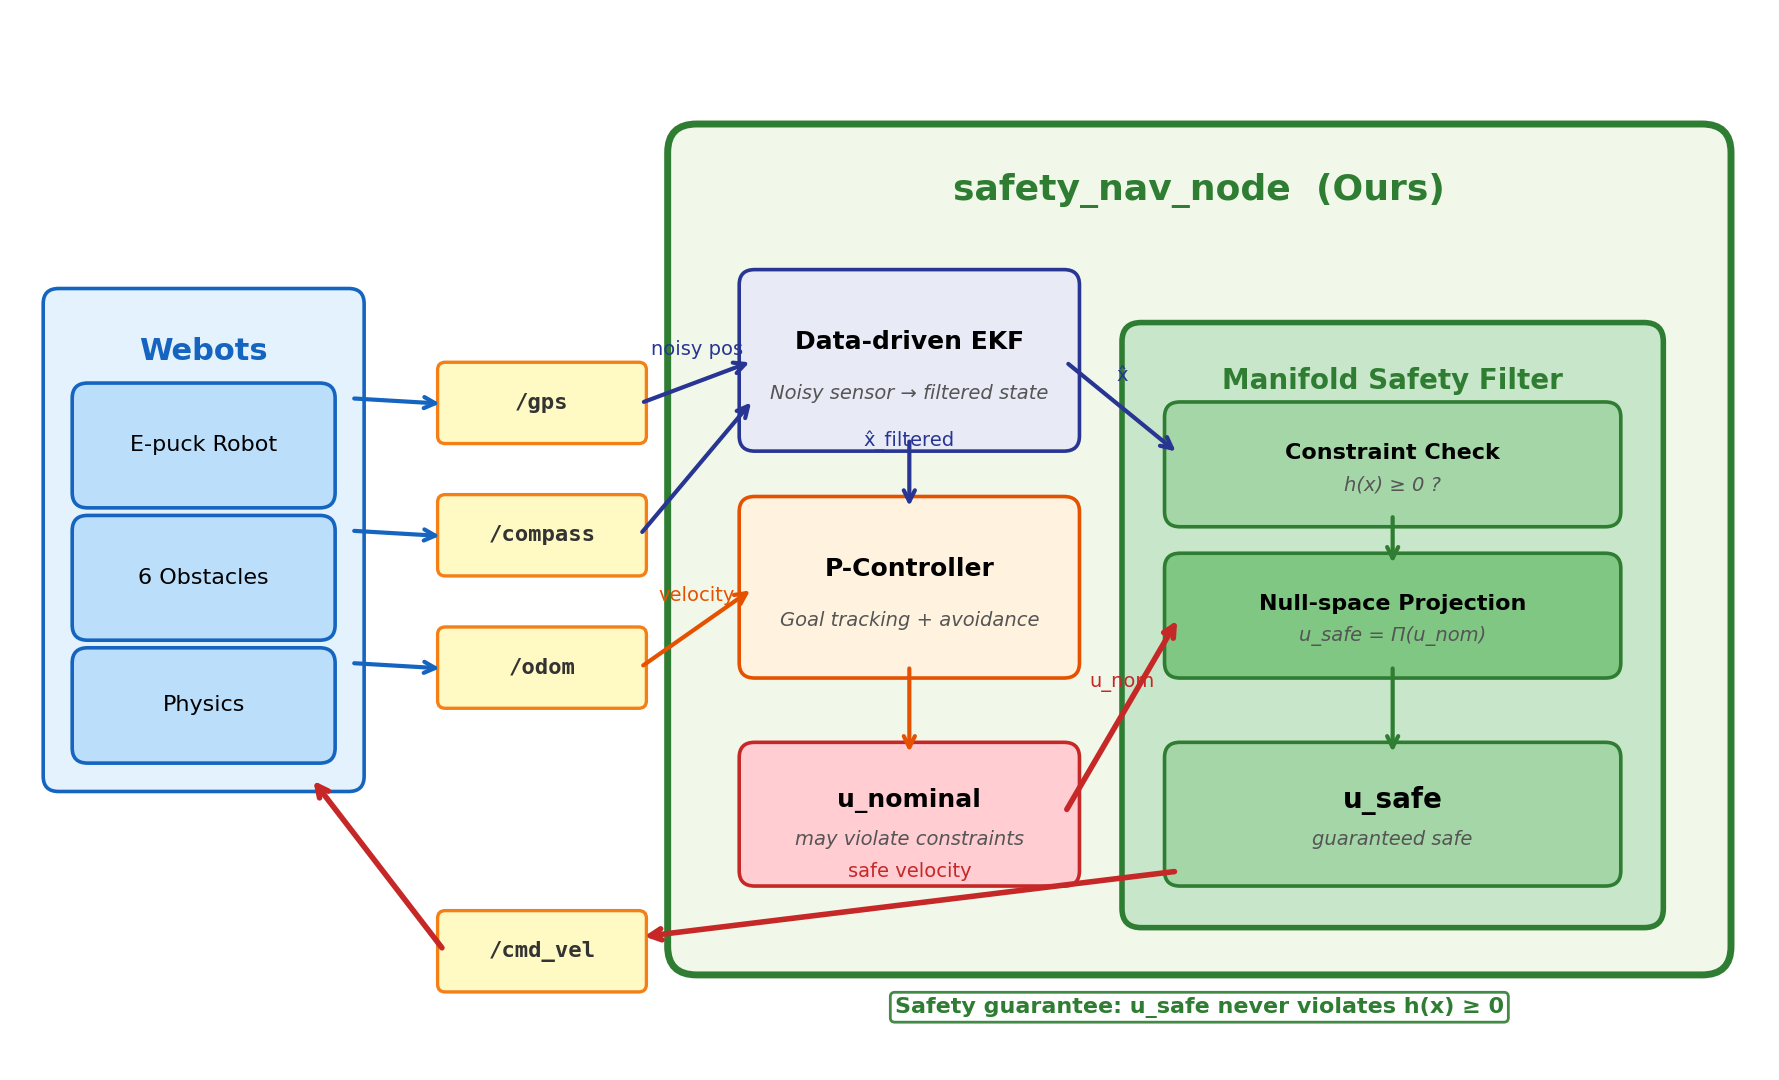
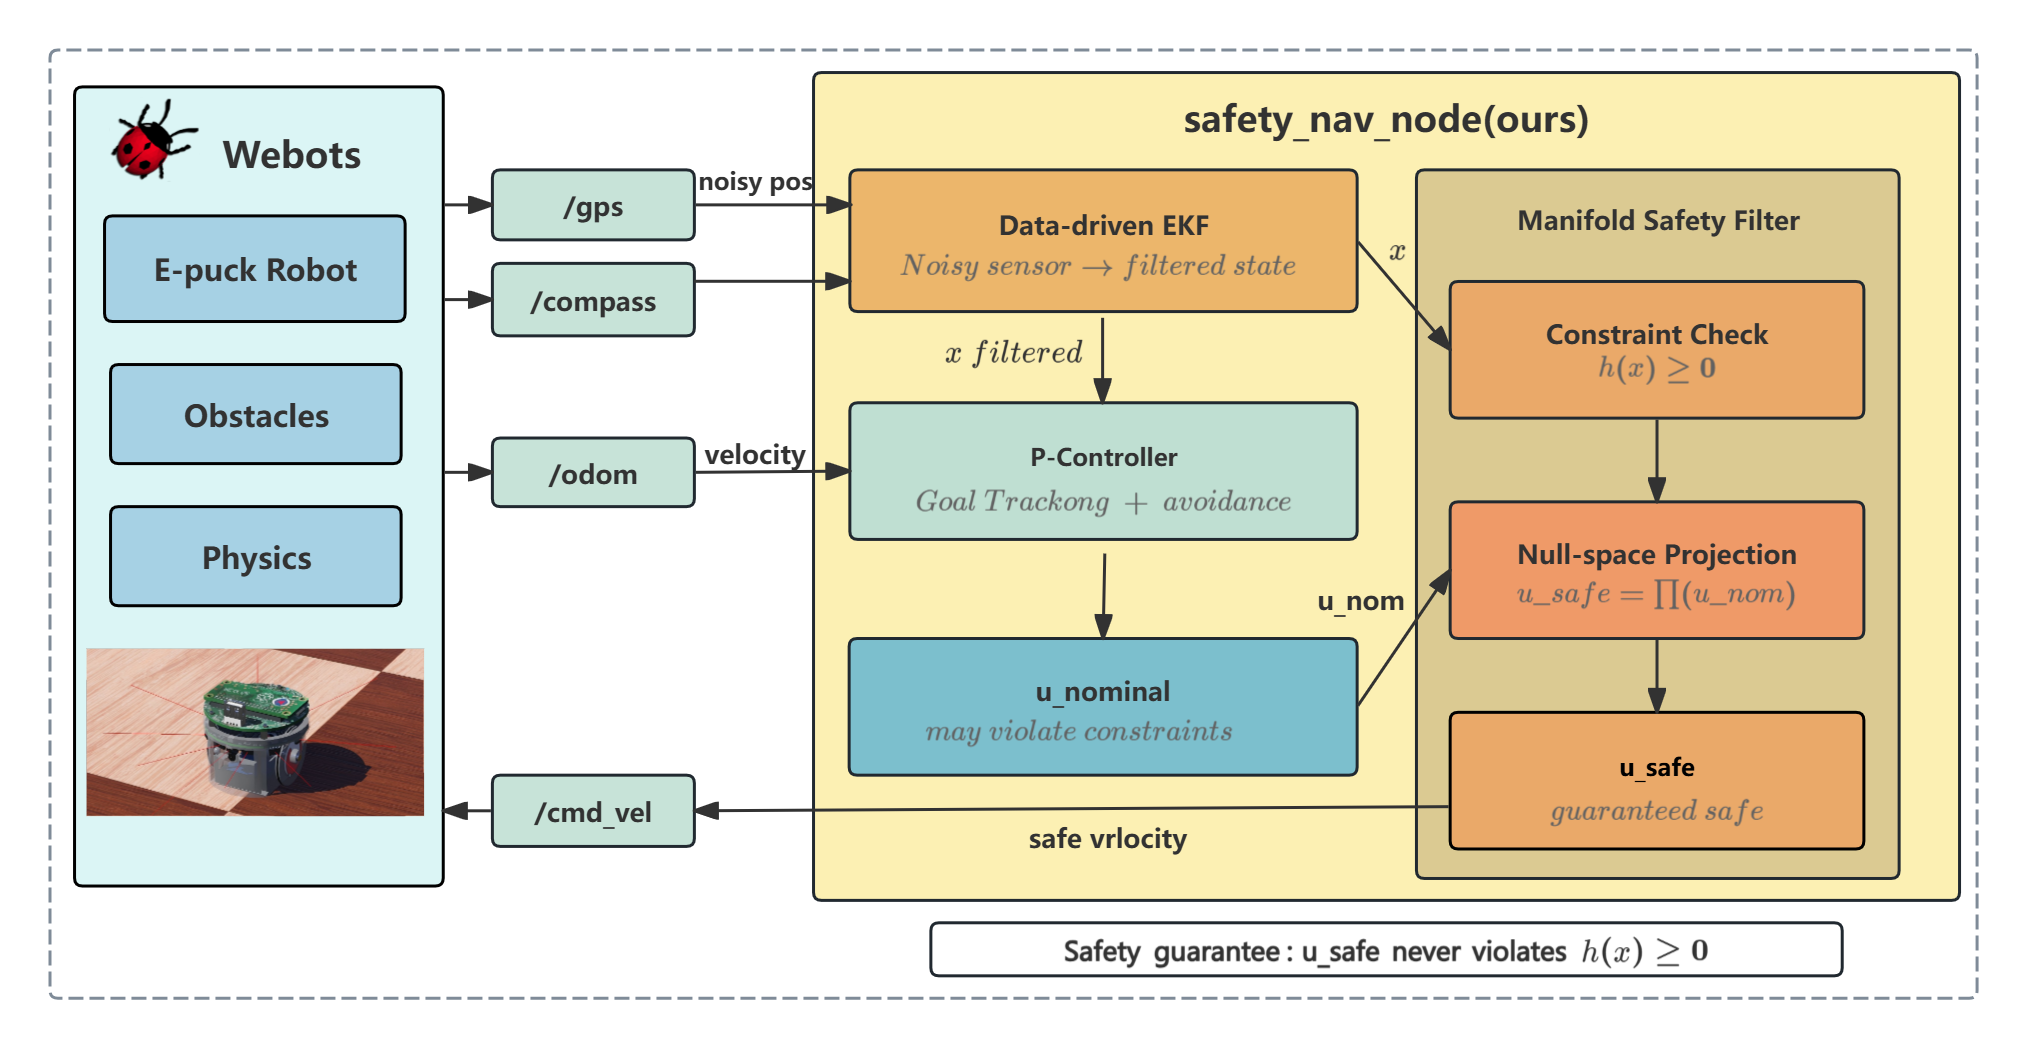
fix：update table2 & ros_architecture

diff --git a/IROS2026/main.tex b/IROS2026/main.tex
@@ -369,23 +369,128 @@ Clip ratio $\epsilon$ & 0.2 & Noise $\sigma_{\text{base}}$ / $k$ & 0.1\,m / 5.0 
 
 Table~\ref{tab:main_results} presents results on the Goal navigation task with varying collision penalties $r_{\text{col}} \in \{1.0, 0.5, 0.1\}$. Each experiment was run with 3 random seeds and $10^5$ training steps; we report mean $\pm$ standard deviation.
 
-\begin{table}[t]
-\centering
-\caption{Comparison on Goal Navigation (Safety-Gymnasium). \textbf{Bold} = best per row. Mean $\pm$ std over 3 seeds, $10^5$ training steps, 50 eval episodes.}
-\label{tab:main_results}
-\resizebox{\columnwidth}{!}{
-\begin{tabular}{c|cc|cc|cc|cc|cc}
-\toprule
-& \multicolumn{2}{c|}{PPO} & \multicolumn{2}{c|}{IPO} & \multicolumn{2}{c|}{PPO-Lag} & \multicolumn{2}{c|}{Rec-RL} & \multicolumn{2}{c}{\textbf{Ours}} \\
-$r_{\text{col}}$ & Rew & Cost & Rew & Cost & Rew & Cost & Rew & Cost & Rew & Cost \\
-\midrule
-1.0 & \small -10.7\tiny$\pm$3.6 & \textbf{\small 5.2\tiny$\pm$2.8} & \textbf{\small -4.6\tiny$\pm$5.1} & \small 21.7\tiny$\pm$17.1 & \small -10.0\tiny$\pm$8.1 & \small 6.8\tiny$\pm$2.1 & \small -13.5\tiny$\pm$7.6 & \small 32.3\tiny$\pm$17.6 & \small -17.9\tiny$\pm$4.9 & \small 7.3\tiny$\pm$5.7 \\
-0.5 & \small -11.0\tiny$\pm$7.5 & \small 7.5\tiny$\pm$2.1 & \small -6.4\tiny$\pm$6.2 & \small 5.8\tiny$\pm$2.3 & \textbf{\small -2.3\tiny$\pm$1.5} & \small 19.6\tiny$\pm$8.8 & \small -26.1\tiny$\pm$1.4 & \small 5.2\tiny$\pm$1.5 & \small -9.6\tiny$\pm$3.8 & \textbf{\small 5.2\tiny$\pm$3.1} \\
-0.1 & \small -2.5\tiny$\pm$1.5 & \small 48.3\tiny$\pm$19.5 & \small -11.7\tiny$\pm$8.3 & \small 7.2\tiny$\pm$3.7 & \small -16.4\tiny$\pm$10.0 & \small 9.9\tiny$\pm$8.7 & \small -27.9\tiny$\pm$0.1 & \small 4.9\tiny$\pm$1.1 & \textbf{\small -11.2\tiny$\pm$5.8} & \textbf{\small 4.3\tiny$\pm$2.6} \\
-\bottomrule
-\end{tabular}
-}
-\end{table}
+% \begin{table}[t]
+% \centering
+% \caption{Comparison on Goal Navigation (Safety-Gymnasium). \textbf{Bold} = best per row. Mean $\pm$ std over 3 seeds, $10^5$ training steps, 50 eval episodes.}
+% \label{tab:main_results}
+% \resizebox{\columnwidth}{!}{
+% \begin{tabular}{c|cc|cc|cc|cc|cc}
+% \toprule
+% & \multicolumn{2}{c|}{PPO} & \multicolumn{2}{c|}{IPO} & \multicolumn{2}{c|}{PPO-Lag} & \multicolumn{2}{c|}{Rec-RL} & \multicolumn{2}{c}{\textbf{Ours}} \\
+% $r_{\text{col}}$ & Rew & Cost & Rew & Cost & Rew & Cost & Rew & Cost & Rew & Cost \\
+% \midrule
+% 1.0 & \small -10.7\tiny$\pm$3.6 & \textbf{\small 5.2\tiny$\pm$2.8} & \textbf{\small -4.6\tiny$\pm$5.1} & \small 21.7\tiny$\pm$17.1 & \small -10.0\tiny$\pm$8.1 & \small 6.8\tiny$\pm$2.1 & \small -13.5\tiny$\pm$7.6 & \small 32.3\tiny$\pm$17.6 & \small -17.9\tiny$\pm$4.9 & \small 7.3\tiny$\pm$5.7 \\
+% 0.5 & \small -11.0\tiny$\pm$7.5 & \small 7.5\tiny$\pm$2.1 & \small -6.4\tiny$\pm$6.2 & \small 5.8\tiny$\pm$2.3 & \textbf{\small -2.3\tiny$\pm$1.5} & \small 19.6\tiny$\pm$8.8 & \small -26.1\tiny$\pm$1.4 & \small 5.2\tiny$\pm$1.5 & \small -9.6\tiny$\pm$3.8 & \textbf{\small 5.2\tiny$\pm$3.1} \\
+% 0.1 & \small -2.5\tiny$\pm$1.5 & \small 48.3\tiny$\pm$19.5 & \small -11.7\tiny$\pm$8.3 & \small 7.2\tiny$\pm$3.7 & \small -16.4\tiny$\pm$10.0 & \small 9.9\tiny$\pm$8.7 & \small -27.9\tiny$\pm$0.1 & \small 4.9\tiny$\pm$1.1 & \textbf{\small -11.2\tiny$\pm$5.8} & \textbf{\small 4.3\tiny$\pm$2.6} \\
+% \bottomrule
+% \end{tabular}
+% }
+% \end{table}
+\begin{table*}[h!]
+    \begin{center}
+      \caption{Result of Manifold Validation Experiments.}
+      \resizebox{\textwidth}{26mm}{
+      \begin{tabular}{cc|*{4}{ccc|}ccc} \hline
+      \multicolumn{2}{c|}{Algorithm} & 
+      \multicolumn{3}{c|}{PPO} & 
+      \multicolumn{3}{c|}{PCPO} & 
+      \multicolumn{3}{c|}{PPO\_LAG} & 
+      \multicolumn{3}{c|}{TRPO\_LAG} & 
+      \multicolumn{3}{c}{PPO\_CM}\\ 
+      TASK & $r_{collision}$ 
+          & reward & cost & step 
+          & reward & cost & step 
+          & reward & cost & step 
+          & reward & cost & step 
+          & reward & cost & step \\ \hline
+     
+      \multirow{3}{*}{GOAL} 
+      & 1 
+          & -6.87 &  7.77 & 516.92 
+          & -2.11 &  3.75 & 342.41 
+          & -9.67 & 10.00 & 713.28
+          & -3.08 &  4.01 & 489.94
+          &  \textcolor{red}{1.68} &  \textcolor{Green3}{0.00} & 351.52 \\
+      & 0.5 
+          & -2.71 &  8.45 & 334.87 
+          & -0.71 &  4.66 & 252.37 
+          & -5.91 & 13.91	& 505.15	
+          &  0.00 &  3.53 & 226.23	
+          &  \textcolor{red}{1.68} &  \textcolor{Green3}{0.00} & 350.53
+   \\
+      & 0.1 
+          & 1.59	& 4.88	& 100.99	
+          & 1.65	& 3.94	& 101.01	
+          & 1.5	& 5.46	& 118.89	
+          & \textcolor{red}{1.79}	& 3.01	& 83.76	
+          & 1.69	& \textcolor{Green3}{0.00}	& 352.31 \\ \hline
+  
+      \multirow{3}{*}{CIRCLE} 
+      & 1 
+          & 5.88	& 5.49 & 500	
+          & 30.36	& 2.64 & 500	
+          & 5.88	& 5.49 & 500	
+          & \textcolor{red}{34.61} & 2.13 & 500.00 
+          & 15.99 & \textcolor{Green3}{0.00} & 500.00 \\
+      & 0.5 
+          & 23.24 & 8.51 & 500.00 
+          & 31.32 & 3.24 & 500.00 
+          & \textcolor{red}{33.67} & 5.00 & 500.00 
+          & 32.68 & 4.78 & 500.00 
+          & 15.99 & \textcolor{Green3}{0.00} & 500.00 \\
+      & 0.1 
+          & \textcolor{red}{38.32} & 31.83 & 500.00 
+          & 34.47 & 15.59 & 500.00 
+          & 37.14 & 23.98 & 500.00 
+          & 36.91 & 38.13 & 500.00 
+          & 15.99 &  \textcolor{Green3}{0.00} & 500.00  \\ \hline
+  
+      \multirow{3}{*}{PUSH} 
+      & 1 
+          & -10.43 & 9.99 & 996.09 
+          &  -5.02 & 4.88 & 985.65 
+          & -10.43 & 9.99 & 996.09 
+          &  -2.76 & 2.89 & 978.22 
+          &  \textcolor{red}{0.51} & \textcolor{Green3}{0.00} & 997.03  \\
+      & 0.5 
+          & -4.13 & 8.45 & 989.74 
+          & -3.30 & 6.50 & 989.36 
+          & -4.13 & 8.45 & 989.74 
+          & -2.99 & 6.49 & 967.00 
+          & \textcolor{red}{0.51} &\textcolor{Green3}{0.00} & 997.03  \\
+      & 0.1 
+          & -1.50 & 18.31 & 977.08 
+          & -0.74 & 11.93 & 946.58 
+          & -1.09 & 14.88 & 968.53 
+          & -1.10 & 13.28 & 978.01 
+          & \textcolor{red}{0.51} & \textcolor{Green3}{0.00} & 997.03 \\ \hline
+  
+      \multicolumn{2}{c|}{Algorithm} & 
+      \multicolumn{3}{c|}{MAPPO} & 
+      \multicolumn{3}{c|}{HAPPO} & 
+      \multicolumn{3}{c|}{MACPO} & 
+      \multicolumn{3}{c|}{MAPPO\_LAG} & 
+      \multicolumn{3}{c}{PPO\_CM}\\ 
+      TASK & $r_{collision}$ 
+          & reward & cost & time 
+          & reward & cost & time 
+          & reward & cost & time 
+          & reward & cost & time 
+          & reward & cost & time \\ \hline
+     
+      MULTI\_GOAL
+      & 1 
+          & -23.42 & 23.12 & 361.55 
+          & -17.75 & 17.64 & 198.82 
+          & -36.41 & 36.13 & 181.83 
+          & -13.50 & 12.48 & 191.65 
+          & \textcolor{red}{0.01} & \textcolor{Green3}{0.07} & 346.48 
+  \\ \hline
+      
+      \end{tabular}
+      }
+    \end{center}
+  \end{table*}
 
 \textbf{Key Observations.}
 Our method achieves consistently low cost across all penalty settings ($4.29$--$7.32$), demonstrating \emph{robustness to penalty tuning}. In contrast, PPO's cost varies by an order of magnitude ($5.21$--$48.25$): with high penalties ($r_{\text{col}}=1.0$), PPO learns to avoid hazards, but at low penalties ($r_{\text{col}}=0.1$), it accumulates $48.25$ violations. Similarly, IPO ($5.80$--$21.71$) and PPO-Lag ($6.79$--$19.60$) are sensitive to penalty settings. Recovery-RL achieves low cost ($4.87$--$5.18$) at $r_{\text{col}} \leq 0.5$ but is overly conservative (reward $-26$ to $-28$) and fails at high penalty ($32.31$ at $r_{\text{col}}=1.0$). Our method provides the best cost-reward trade-off across settings, particularly at low penalties where other methods either violate constraints or become excessively conservative.
